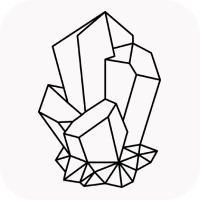
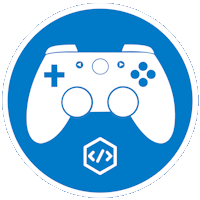
Quartz sync: May 6, 2025, 3:55 PM

diff --git a/quartz/components/Footer.tsx b/quartz/components/Footer.tsx
@@ -1,6 +1,5 @@
 import { QuartzComponent, QuartzComponentConstructor, QuartzComponentProps } from "./types"
 import style from "./styles/footer.scss"
-import { version } from "../../package.json"
 import { i18n } from "../i18n"
 
 interface Options {
@@ -14,7 +13,7 @@ export default ((opts?: Options) => {
     return (
       <footer class={`${displayClass ?? ""}`}>
         <p>
-          {i18n(cfg.locale).components.footer}{" GameCodeMastery "}
+          {i18n(cfg.locale).components.footer}{" Game Code Mastery "}
            © {year}
         </p>
         <ul>

diff --git a/content/Advanced ARPG Combat/Save Game System.md b/content/Advanced ARPG Combat/Save Game System.md
@@ -1,0 +1,106 @@
+---
+title: Save Game System
+---
+# Overview
+
+The Save Game System in **Advanced ARPG Combat** is a basic mechanism that saves the player's progress and allows it to be restored upon reloading the game. By default, this system is disabled and must be explicitly enabled by the developer. It is designed to save the game automatically under specific conditions, such as upon player death or resting at a bonfire.
+
+# Key Features
+
+- **Lightweight System**: Focused on saving and loading player progress.
+- **Manual Enablement**: Developers can control whether the system is active.
+- **Simple Save Conditions**: Triggered during player death or rest at a bonfire.
+- **No Advanced Features**: This system does not include autosave timer, multiple save slots, or cloud synchronization.
+
+# Blueprint Structure
+
+The system revolves around three primary Blueprints:
+
+1. **SaveGameData Blueprint Class**:
+	Serves as the storage container for saved game data.
+	
+2. **BP_AdvancedGameInstance**:
+	 Implements core save and load functionalities via the _BP_SaveGameInterface_.
+	- Important properties:
+		- bEnableSaveGameSystem (Boolean): Must be set to `true` to enable the system.
+		- SaveSlotName (String): Customizable name for the save slot.
+
+3. **BP_SaveGameInterface:**
+	Defines key functions for saving and loading:
+	- InitializeSaveGame
+	- SaveGame
+	- LoadData
+	- LoadGame
+	- DeleteSaveData
+	- StorePlayerSpawnTransform
+	- StoreSpawnSoulTransform
+
+# Variables and Data
+
+**The Default saved data includes:**
+- Player inventory (`Inventory` array)
+- Equipment slots (`Equipment Slots` array)
+- Player attributes (`Attributes` array)
+- Combat enabled status
+- Player start transform
+- Spawned soul pickup transform
+
+# Usage
+
+1. **Getting Started**:
+	- Enable the system by setting `bEnableSaveGameSystem` to `true` in the `BP_AdvancedGameInstance`.
+	
+![[Enable Save Game System 1.png]]
+
+	- Use the `BP_SaveGameInterface` functions to manage saving and loading as follows:
+	- **SaveGame:** Save the current game state.
+	- **LoadGame:** Load a previously saved game.
+	- **DeleteSaveData:** Delete the saved game data.
+	- **InitializeSaveGame:** Initialize the save game system.
+	- **LoadData:** Load saved data without affecting player locations.
+
+2. **Example:**
+	- To save the game, get a reference to the Game Instance and call the `SaveGame` function.
+	- To load the game, call the `LoadGame` function in a similar manner.
+
+![[SaveGameFunctions.png]]
+# Customization Options
+
+1. **Adding New Data:**
+	- Add the desired variable in the `SaveGameData` Blueprint.
+	- Update the `SaveGame` event in `BP_AdvancedGameInstance` to store the data.
+	
+![[Save Game Function 1.png]]
+	
+	- Modify the `LoadData` event to retrieve and apply the data.
+
+![[LoadGameFunctions.png]]
+
+# Setup Instructions
+
+**1. Enabling the System:**
+- Navigate to `BP_AdvancedGameInstance` and set `bEnableSaveGameSystem` to `true`.
+
+**2. Initialization:**
+- Automatically handled for included characters.
+- For custom characters, call `InitializeSaveGame` in the Game Mode.
+
+**3. Order of Initialization:**
+- Call `InitializeSaveGame` **before** initializing combat system components. This ensures that saved data overrides default data during initialization.
+
+# Example Use Case
+
+When a player is defeated by a boss, the system ensures that they respawn with the same inventory, equipment, attributes, and combat state they had before death.
+
+# Common Issues and Troubleshooting
+
+**1. Data Not Loading Correctly:**
+- Verify that `bEnableSaveGameSystem` is set to `true`.
+- Ensure `InitializeSaveGame` is called on Begin Play in the Player Character.
+- Check the order of initialization; `InitializeSaveGame` must be called **before** component initialization.
+- Confirm that the `SaveGame` object name matches the `SaveSlotName` in `BP_AdvancedGameInstance`.
+
+# Additional Notes
+
+- The system is designed to be lightweight and customizable, making it easy to extend or adapt for specific game requirements.
+- For advanced save game features like autosave or multiple slots, additional work would be required.

diff --git a/content/index.md b/content/index.md
@@ -1,5 +1,69 @@
 ---
-title: Welcome to the Advanced ARPG Combat Wiki
+title: Game Code Mastery Wikis
 ---
+![[Combat Types.png]]
 
-This is documentation for Advanced ARPG Combat V3.
+Advanced Action RPG Combat System is designed to give developers an all in one template for Action RPG combat. Coded entirely with Blueprints.
+
+[Overview Video (V1)](https://www.youtube.com/watch?v=Zk-7zrNc8vU)
+[Overview Video (V3)](https://www.youtube.com/watch?v=xi9IZ1Z7-YA)
+
+
+> [!NOTE] IMPORTANT: 
+> **_IT IS HIGHLY ADVISED THAT YOU HAVE A GOOD UNDERSTANDING OF BLUEPRINTS PRIOR TO YOUR PURCHASE OF THIS PACK. THIS IS NOT A PLUG AND PLAY SYSTEM, WORKING WITH IT CAN BE CONFUSING IF YOU ARE NEW TO UNREAL ENGINE._**
+
+To see what the product is capable of using high quality animations (animations not included), try the [Demo](https://www.mediafire.com/file/6jwtia4yucrcsx2/AARPG_with_Marketplace_Anims.zip/file).
+
+To see the system with the included animations try this [Demo](https://www.mediafire.com/file/g4qqh53d4b0398t/AARPG_With_Included_Animations.zip/file) or watch this [Video](https://youtu.be/catMRNgtJfE)
+
+For support please visit the [Discord](https://discord.gg/6NcaJuj)
+
+### Video Tutorials:
+
+[Video Tutorials](https://youtube.com/playlist?list=PLrlmX34siH5_QaT-6XzS54hWW_beKTah7)
+
+### Technical details
+
+#### Features:
+
+- Melee Combat System (Dual Wield, 2H, 1 Handed, Fists, 1 Hand Shield, Shield, twinblades, & more)
+- Ranged Combat System
+- Magic Combat System
+- Multiple "Builds" (Melee, ranged, magic, multiple equipment types, abilities, buffs, multiple damage types, etc)
+- Advanced Boss AI System
+- Advanced Mob AI
+- Complex & Detailed Hit Reaction System
+- Directional Blocking
+- Fatality Execution System
+- Assassinations
+- Parry System
+- Abilities System
+- Gameplay Effects System
+- 8-way Directional Dodging
+- Input Buffer System
+- Targeting System
+- Camera Manager
+- Targeting System
+- RPG attributes System
+- RPG Equipment System
+- RPG Inventory System
+- Storage & Looting
+- NPC Vendor Shop
+- Inventory & Equipment UI
+- Item Sorting System (sort by type, rarity, etc)
+- Item Switching System (item switching UI included)
+- Multiple weapon types
+- Multiple damage types
+- Status Effects System (poison, frostbite, etc)
+- Impact Sounds & VFX System
+- Interaction system
+- Accessories System (grant various buffs or other attribute modifiers)
+- Multiple Stances (player character)
+- Turn in-place
+- Save Game
+- Gamepad Optimized
+
+**Number of Blueprints:** 516
+**Input:** Gamepad, Keyboard, Mouse
+**Network Replicated:** (No)
+**Supported Development Platforms:** (Windows, Mac)